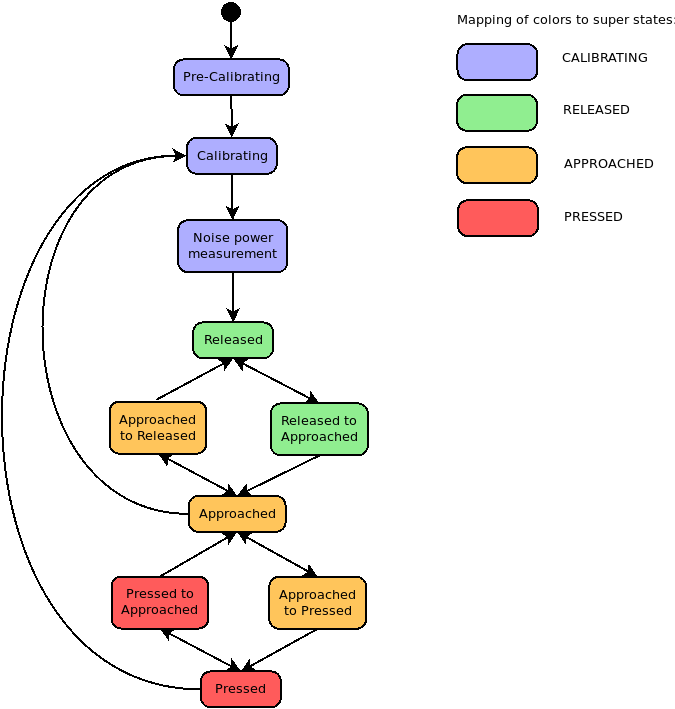
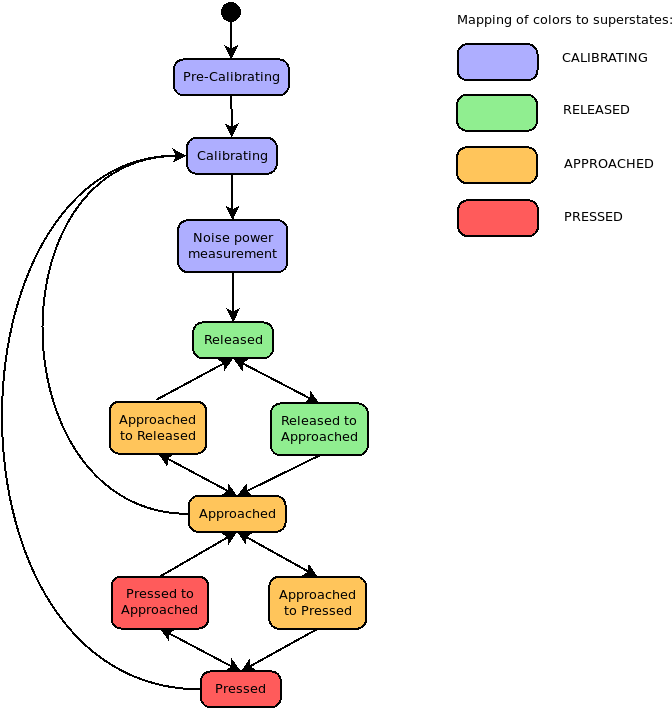
Small update to state diagram + linked diagram to more pages

diff --git a/api---state-machine-timing.md b/api---state-machine-timing.md
@@ -7,6 +7,40 @@ weight: 50
 in_book: 2
 ---
 
+The properties listed on this page determine the timing upon which the state
+machine determines to change a sensor from one state to the next. The state
+transition diagram is shown here as a reminder; for more information on the
+state machine see FIXME.
+
+![state transition diagram](../../state-machine.svg)
+
+---
+
+### preCalibrationTime
+
+```C++
+uint32_t tlSensors.data[<n>].preCalibrationTime
+```
+If a sensor is in preCalibrating state, it will automatically transfer to
+calibrating state after `preCalibrationTime` milliseconds. This allows for
+settling of power supplies etc.
+
+Default: 100 ms
+
+---
+
+### calibrationTime
+
+```C++
+uint32_t tlSensors.data[<n>].calibrationTime
+```
+If a sensor is in calibrating state, it will transfer to noisePowerMeasurement
+state after `calibrationTime` milliseconds. During this time, call the
+`sample()` function as often as possible so TouchLib can determine the
+background level of this sensor.
+
+Default: 500 ms
+
 ### releasedToApproachedTime
 
 ```C++
@@ -78,31 +112,6 @@ back to approached.
 Default: 10 ms
 
 ---
-
-### preCalibrationTime
-
-```C++
-uint32_t tlSensors.data[<n>].preCalibrationTime
-```
-If a sensor is in preCalibrating state, it will automatically transfer to
-calibrating state after `preCalibrationTime` milliseconds. This allows for
-settling of power supplies etc.
-
-Default: 100 ms
-
----
-
-### calibrationTime
-
-```C++
-uint32_t tlSensors.data[<n>].calibrationTime
-```
-If a sensor is in calibrating state, it will transfer to noisePowerMeasurement
-state after `calibrationTime` milliseconds. During this time, call the
-`sample()` function as often as possible so TouchLib can determine the
-background level of this sensor.
-
-Default: 500 ms
 
 ### approachedTimeout
 

diff --git a/api---state-machine-thresholds.md b/api---state-machine-thresholds.md
@@ -7,6 +7,15 @@ weight: 40
 in_book: 2
 ---
 
+The properties listed on this page determine the levels of the delta values
+upon which the state machine determines to change a sensor from one state to
+the next. The state transition diagram is shown here as a reminder; for more
+information on the state machine see FIXME.
+
+![state transition diagram](../../state-machine.svg)
+
+---
+
 ### releasedToApproachedThreshold
 
 ```C++

diff --git a/signal-processing---introduction.md b/signal-processing---introduction.md
@@ -16,4 +16,4 @@ in_book: 3
 * low pass filter to update background level
 * button state machine
 
-![button state machine](../../state-machine.svg)
+![state transition diagram](../../state-machine.svg)
